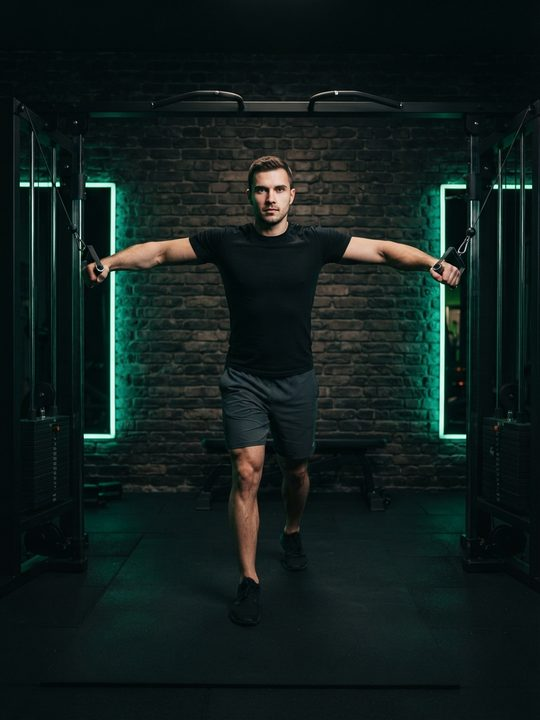
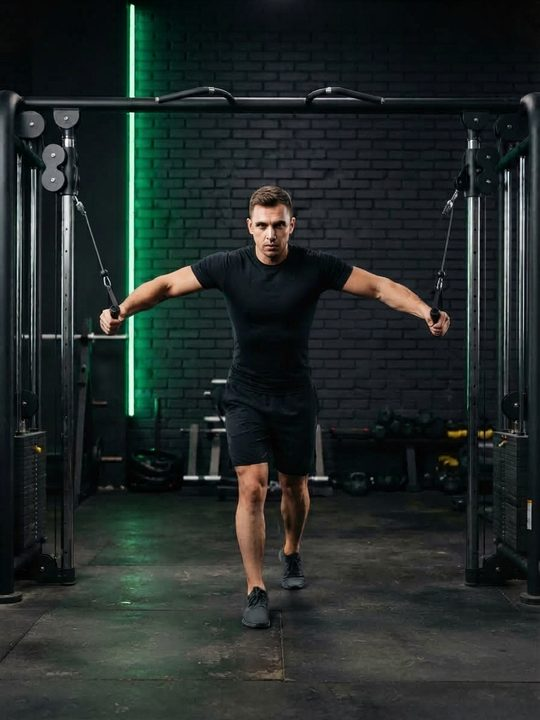
Instruktionsbilder+GIFs: cable_crossover (m/w)
Claude-Session: https://claude.ai/code/session_01PvyiLGJFyas6muFwwubScP

diff --git a/script.js b/script.js
@@ -528,7 +528,7 @@ function renderOverview() {
 // V8-04: Wochenplan-Einträge (haben trainingId) sind anklickbar -> Detailseite mit Dauer/Kalorien.
 // V6-08: Verlauf als Foto-Kacheln mit Wochenkopf, Gruppierung nach Woche/Monat.
 let imgSet = new Set();
-fetch('img/index.json?v=39').then(r => r.json()).then(a => { imgSet = new Set(a); }).catch(() => {});
+fetch('img/index.json?v=40').then(r => r.json()).then(a => { imgSet = new Set(a); }).catch(() => {});
 function slugOf(g) { return (g || '').replace(/^gifs\//, '').replace(/\.gif$/, ''); }
 // Foto passend zum Profil (m/w); ohne Foto -> GIF
 function imgOf(ex) {
